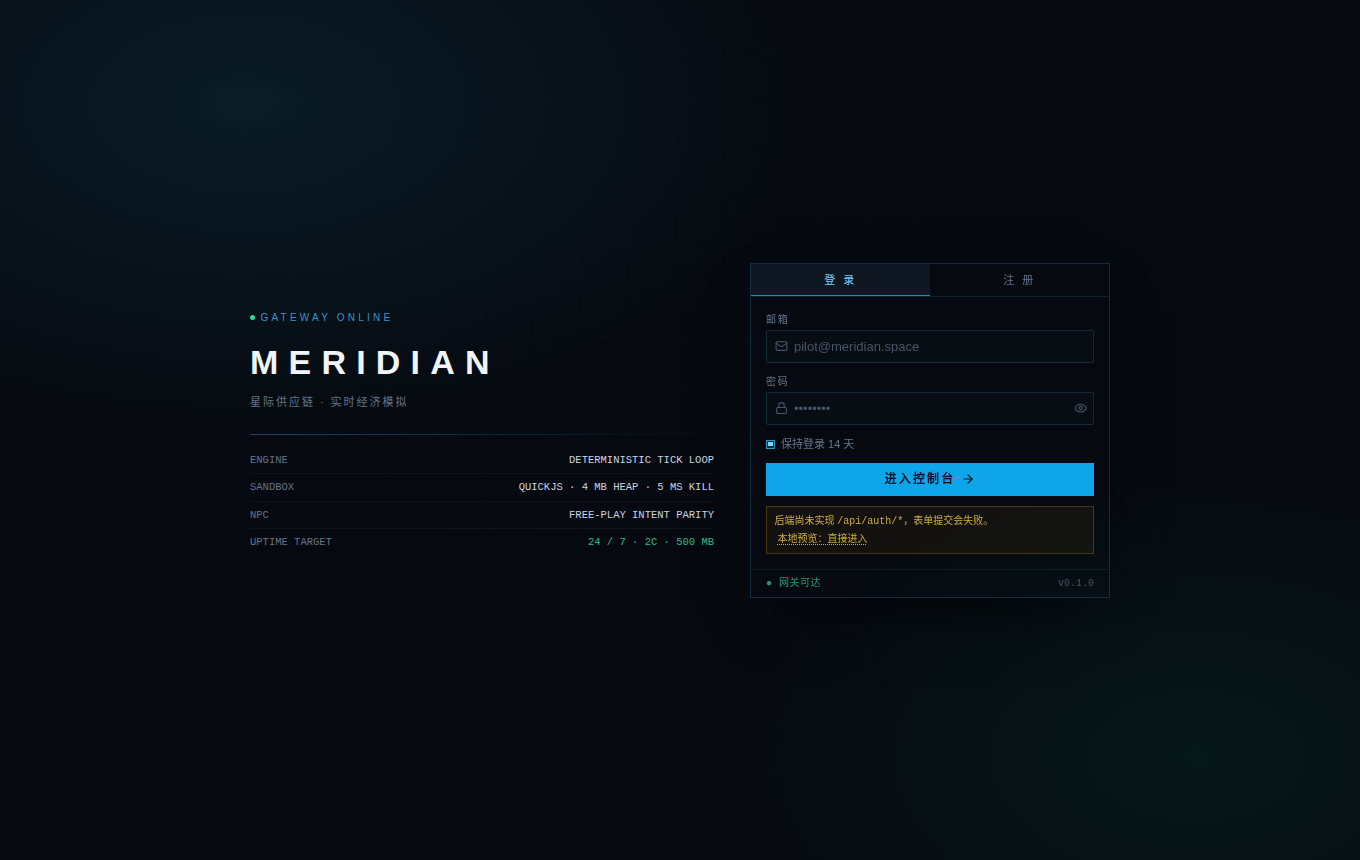
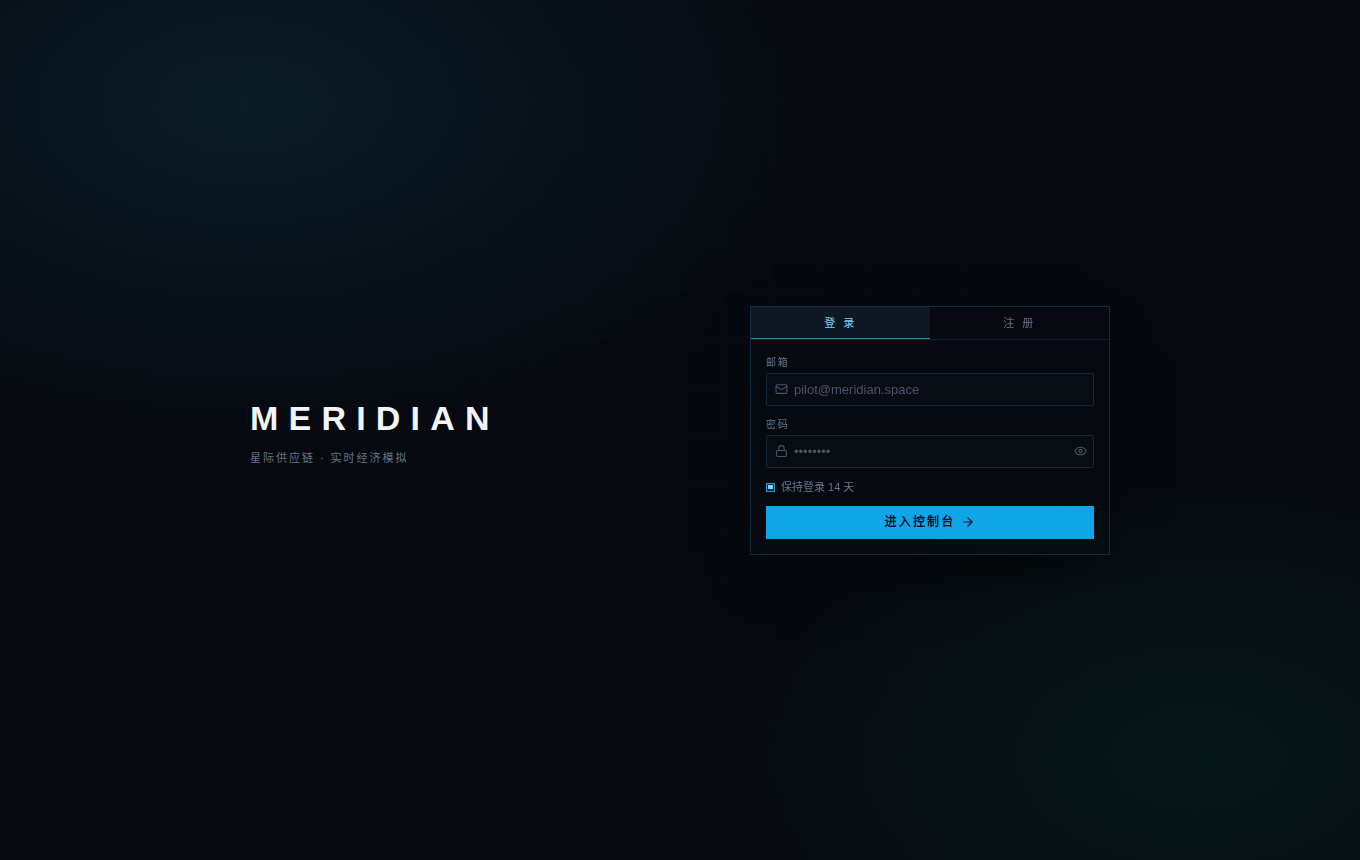
chore(auth): 登录页移除服务器/环境信息
- 删掉 ENGINE / SANDBOX / NPC / UPTIME 等运行时参数罗列
- 删掉 GATEWAY ONLINE 与「网关可达」状态灯
- 删掉页脚版本号
- 登录前不再请求 /api/health
- 错误文案与开发提示不再暴露 /api/auth/* 路径

diff --git a/frontend/src/auth/AuthScreen.tsx b/frontend/src/auth/AuthScreen.tsx
@@ -15,9 +15,7 @@ import { ApiError, authApi, setCurrentCompany, type SessionUser } from '../api/c
 type Mode = 'login' | 'register';
 
 export interface AuthScreenProps {
-  /** 后端 /api/health 是否可达 */
-  serverUp: boolean;
-  /** 后端是否已实现 /api/auth/*（未实现时给出明显提示，便于前后端分头开发） */
+  /** 后端是否已实现会话接口（未实现时给出明显提示，便于前后端分头开发） */
   authImplemented: boolean;
   /** 仅 DEV 且后端未实现鉴权时出现 */
   onDevBypass?: () => void;
@@ -145,7 +143,7 @@ const FieldError: React.FC<{ msg?: string }> = ({ msg }) =>
 
 /* --------------------------------------------------------------- AuthScreen */
 
-export const AuthScreen: React.FC<AuthScreenProps> = ({ serverUp, authImplemented, onDevBypass, onAuthed }) => {
+export const AuthScreen: React.FC<AuthScreenProps> = ({ authImplemented, onDevBypass, onAuthed }) => {
   const [mode, setMode] = useState<Mode>('login');
   const [email, setEmail] = useState('');
   const [nickname, setNickname] = useState('');
@@ -220,7 +218,7 @@ export const AuthScreen: React.FC<AuthScreenProps> = ({ serverUp, authImplemente
         } else if (err.status === 429) {
           setBanner('请求过于频繁，请稍后再试');
         } else if (err.status === 404) {
-          setBanner('后端尚未实现 /api/auth/*，请先落地会话接口');
+          setBanner('账号服务暂不可用，请稍后再试');
         } else {
           setBanner(message);
         }
@@ -258,37 +256,12 @@ export const AuthScreen: React.FC<AuthScreenProps> = ({ serverUp, authImplemente
 
       <div className="relative z-10 flex h-full items-center justify-center px-6 py-8">
         <div className="grid w-full max-w-[860px] items-center gap-12 md:grid-cols-[1fr_360px]">
-          {/* 品牌栏 */}
+          {/* 品牌栏：只放名称与标语，不暴露任何运行时/环境信息 */}
           <div className="hidden select-none md:block">
-            <div className="mb-4 flex items-center gap-2 text-[10px] tracking-[0.32em] text-sky-400/80">
-              <span className="inline-block h-1.5 w-1.5 animate-pulse rounded-full bg-emerald-400" />
-              GATEWAY ONLINE
-            </div>
             <h1 className="text-[34px] font-semibold tracking-[0.30em] text-slate-100">MERIDIAN</h1>
             <div className="mt-2 text-[11px] tracking-[0.18em] text-slate-500">
               星际供应链 · 实时经济模拟
             </div>
-
-            <div className="mt-8 h-px w-full bg-gradient-to-r from-[rgba(56,189,248,0.35)] to-transparent" />
-
-            <dl className="mt-6 space-y-2 font-mono text-[10.5px] text-slate-500">
-              <div className="flex justify-between border-b border-white/[0.04] pb-1.5">
-                <dt>ENGINE</dt>
-                <dd className="text-slate-300">DETERMINISTIC TICK LOOP</dd>
-              </div>
-              <div className="flex justify-between border-b border-white/[0.04] pb-1.5">
-                <dt>SANDBOX</dt>
-                <dd className="text-slate-300">QUICKJS · 4 MB HEAP · 5 MS KILL</dd>
-              </div>
-              <div className="flex justify-between border-b border-white/[0.04] pb-1.5">
-                <dt>NPC</dt>
-                <dd className="text-slate-300">FREE-PLAY INTENT PARITY</dd>
-              </div>
-              <div className="flex justify-between">
-                <dt>UPTIME TARGET</dt>
-                <dd className="text-emerald-400/90">24 / 7 · 2C · 500 MB</dd>
-              </div>
-            </dl>
           </div>
 
           {/* 表单卡片 */}
@@ -478,8 +451,7 @@ export const AuthScreen: React.FC<AuthScreenProps> = ({ serverUp, authImplemente
 
               {!authImplemented && (
                 <div className="border border-amber-500/25 bg-amber-500/[0.06] px-2.5 py-2 text-[10px] leading-relaxed text-amber-300/80">
-                  后端尚未实现 <span className="font-mono">/api/auth/*</span>
-                  ，表单提交会失败。
+                  账号服务尚未就绪，表单提交会失败。
                   {onDevBypass && (
                     <button
                       type="button"
@@ -493,16 +465,6 @@ export const AuthScreen: React.FC<AuthScreenProps> = ({ serverUp, authImplemente
               )}
             </form>
 
-            <div className="flex items-center justify-between border-t border-[rgba(56,189,248,0.10)] px-5 py-2 text-[10px] text-slate-600">
-              <span className="font-mono tracking-wider">
-                {serverUp ? (
-                  <span className="text-emerald-400/70">● 网关可达</span>
-                ) : (
-                  <span className="text-rose-400/70">● 网关不可达</span>
-                )}
-              </span>
-              <span className="font-mono">v0.1.0</span>
-            </div>
           </div>
         </div>
       </div>

diff --git a/frontend/src/auth/SessionGate.tsx b/frontend/src/auth/SessionGate.tsx
@@ -14,7 +14,6 @@ export const SessionGate: React.FC<{ children: React.ReactNode }> = ({ children 
   const bootstrap = useSessionStore((s) => s.bootstrap);
   const setUser = useSessionStore((s) => s.setUser);
 
-  const [serverUp, setServerUp] = useState(false);
   // 默认按「未实现」处理：后端下线或路由缺失时给出明确提示，而不是静默失败
   const [authImplemented, setAuthImplemented] = useState(false);
   // DEV 直通只是本组件的渲染开关，不往 store 里塞假会话
@@ -23,12 +22,6 @@ export const SessionGate: React.FC<{ children: React.ReactNode }> = ({ children 
   useEffect(() => {
     let alive = true;
     void (async () => {
-      const up = await fetch('/api/health', { credentials: 'same-origin' })
-        .then((r) => r.ok)
-        .catch(() => false);
-      if (!alive) return;
-      setServerUp(up);
-
       const result = await bootstrap();
       if (!alive) return;
       setAuthImplemented(result.status === 'authed' ? true : result.authImplemented);
@@ -58,7 +51,6 @@ export const SessionGate: React.FC<{ children: React.ReactNode }> = ({ children 
 
   return (
     <AuthScreen
-      serverUp={serverUp}
       authImplemented={authImplemented}
       onAuthed={setUser}
       onDevBypass={import.meta.env.DEV && !authImplemented ? devBypass : undefined}
